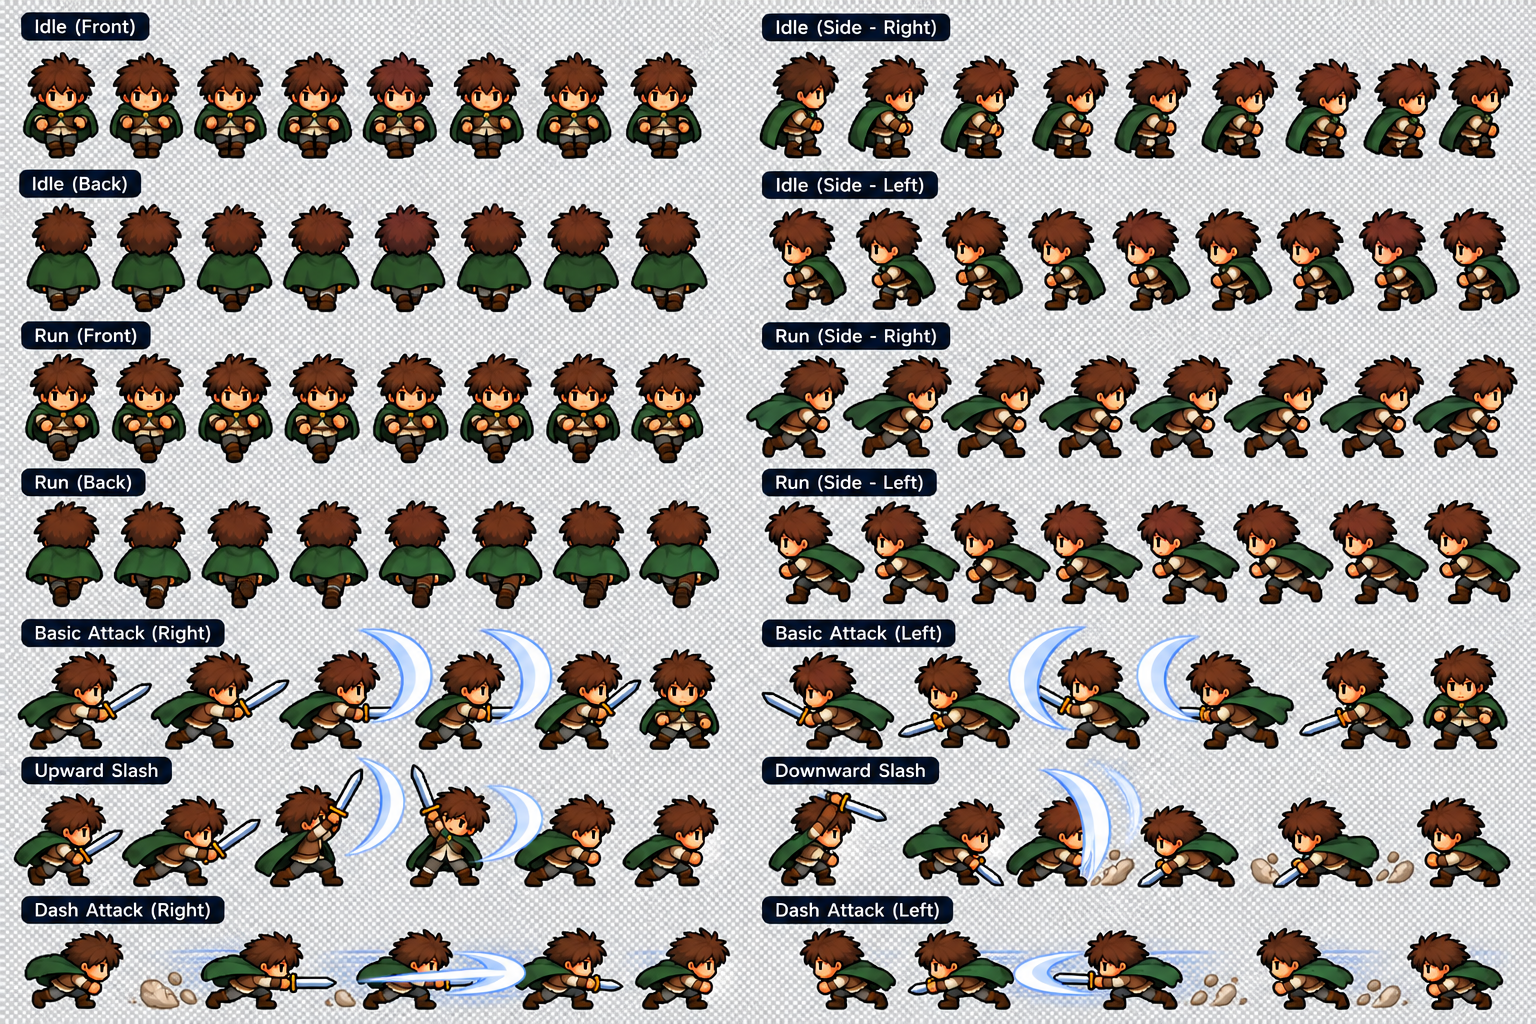
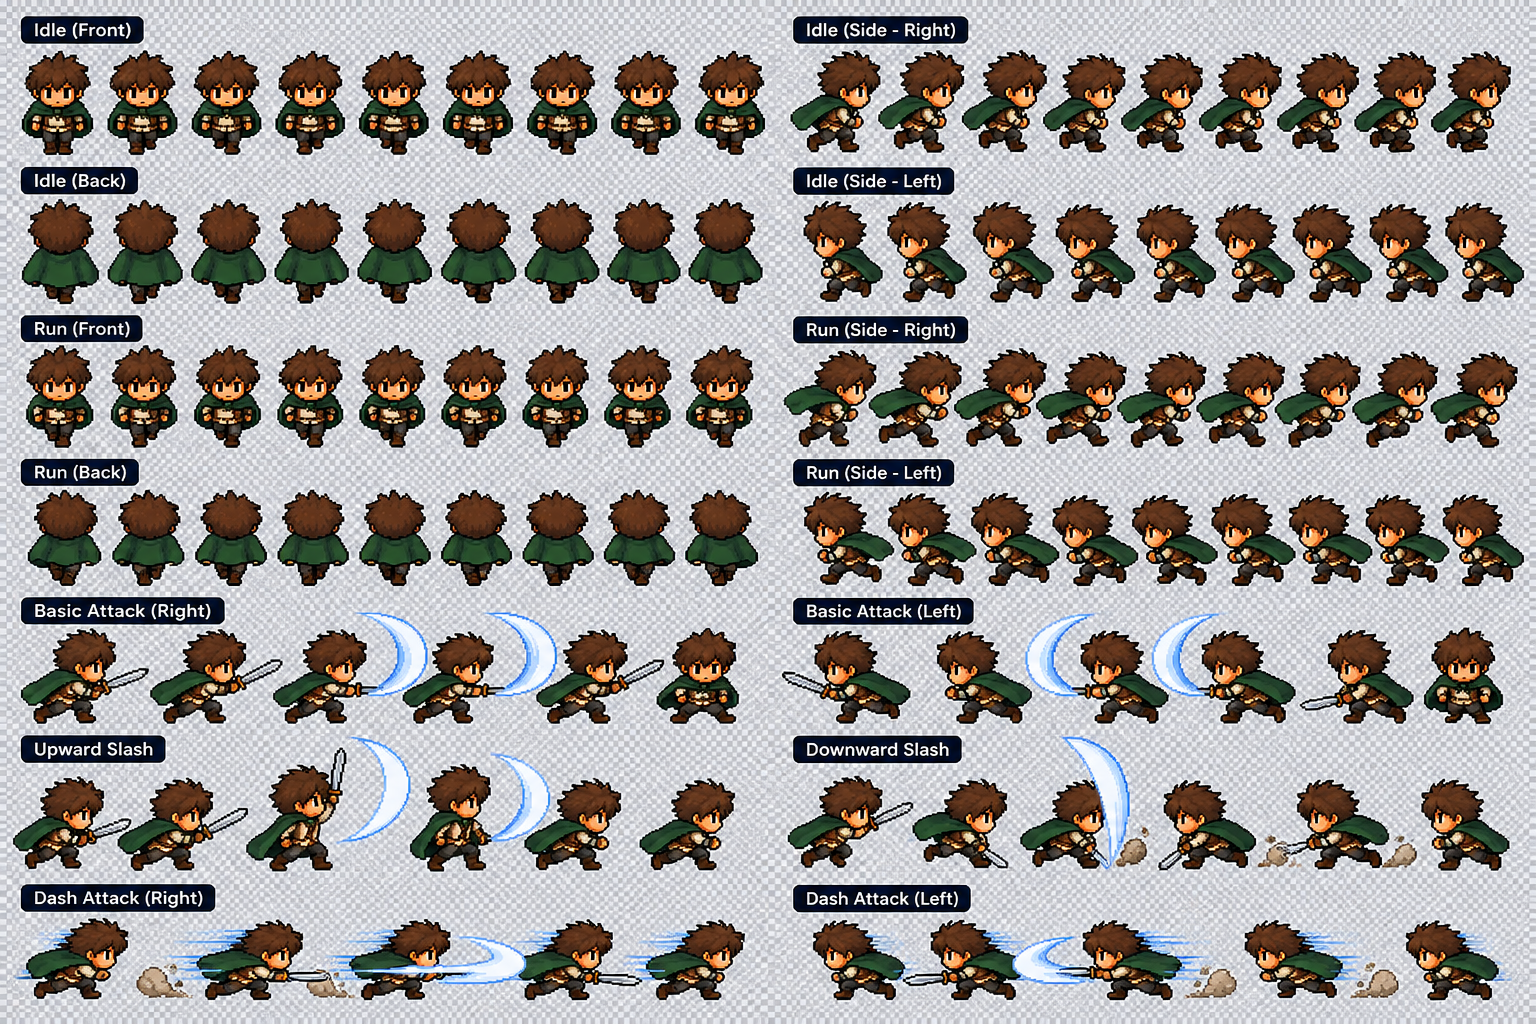
Hero: new full animation sheet
Updated tools/hero-anim.png with 9-frame idles and runs in all four directions,
basic attacks right/left, upward/downward slashes and dash attacks right/left.
Its Run (Side - Right) row has a proper stride, so running right uses it again
instead of the mirrored left run.

Claude-Session: https://claude.ai/code/session_01FFhEA1UyqBRgv5VPwuY3ib

diff --git a/js/hero-frames.js b/js/hero-frames.js
@@ -1,3 +1,3 @@
 // Generated from the hero sprite sheets by tools/build-hero.py: [x, y, w, h, anchorX] per frame.
 // Alpha encodes recolour roles: 255 keep, 254 cloak, 253 hair, 252 skin, 251 tunic.
-export const HERO_FRAMES = {"hurt": [[0, 10, 26, 25, 10]], "idleF": [[27, 2, 24, 33, 12], [52, 2, 23, 33, 11], [76, 2, 23, 33, 11], [100, 2, 23, 33, 11], [124, 2, 23, 33, 11], [148, 2, 23, 33, 11], [172, 2, 24, 33, 12], [197, 2, 24, 33, 12]], "idleR": [[222, 2, 25, 33, 15], [248, 3, 25, 32, 15], [274, 3, 25, 32, 15], [300, 3, 24, 32, 14], [325, 3, 24, 32, 14], [350, 3, 24, 32, 14], [375, 3, 24, 32, 14], [400, 3, 24, 32, 14], [425, 3, 23, 32, 13]], "idleL": [[449, 3, 24, 32, 10], [474, 3, 25, 32, 10], [500, 3, 25, 32, 10], [526, 3, 24, 32, 9], [551, 3, 25, 32, 10], [577, 3, 24, 32, 10], [602, 3, 24, 32, 10], [627, 3, 24, 32, 9], [652, 3, 25, 32, 10]], "idleB": [[678, 1, 23, 34, 11], [702, 1, 23, 34, 12], [726, 1, 24, 34, 11], [751, 1, 24, 34, 11], [776, 1, 24, 34, 12], [801, 1, 23, 34, 11], [825, 1, 24, 34, 12], [850, 1, 24, 34, 11]], "front": [[875, 1, 23, 34, 12], [899, 1, 23, 34, 12], [923, 1, 23, 34, 12], [947, 1, 24, 34, 12], [972, 1, 24, 34, 12], [997, 1, 23, 34, 12], [1021, 1, 23, 34, 12], [1045, 1, 23, 34, 12]], "side": [[1069, 3, 31, 32, 20], [1101, 3, 31, 32, 20], [1133, 3, 31, 32, 20], [1165, 3, 32, 32, 21], [1198, 2, 32, 33, 21], [1231, 2, 32, 33, 21], [1264, 2, 31, 33, 20], [1296, 3, 30, 32, 19]], "sideL": [[1327, 3, 31, 32, 10], [1359, 3, 31, 32, 10], [1391, 3, 31, 32, 10], [1423, 3, 32, 32, 10], [1456, 2, 32, 33, 10], [1489, 2, 32, 33, 10], [1522, 2, 31, 33, 10], [1554, 3, 30, 32, 10]], "back": [[1585, 2, 24, 33, 12], [1610, 1, 24, 34, 12], [1635, 1, 24, 34, 12], [1660, 1, 25, 34, 13], [1686, 1, 24, 34, 12], [1711, 1, 24, 34, 12], [1736, 1, 24, 34, 12], [1761, 1, 25, 34, 12]], "atk": [[1787, 4, 42, 31, 19], [1830, 4, 43, 31, 12], [1874, 4, 36, 31, 19], [1911, 4, 31, 31, 9], [1943, 4, 34, 31, 10]], "atkL": [[1978, 4, 42, 31, 21], [2021, 5, 38, 30, 19], [2060, 3, 35, 32, 15], [2096, 4, 37, 31, 14], [2134, 3, 36, 32, 19]], "atkF": [[2171, 5, 37, 30, 15], [2209, 8, 32, 27, 22], [2242, 6, 26, 29, 19], [2269, 9, 47, 26, 23], [2317, 7, 40, 28, 17], [2358, 7, 39, 28, 19]], "atkB": [[2398, 6, 34, 29, 17], [2433, 7, 43, 28, 20], [2477, 3, 33, 32, 12], [2511, 3, 27, 32, 7], [2539, 6, 32, 29, 11], [2572, 6, 30, 29, 11]], "dash": [[2603, 10, 48, 25, 21], [2652, 10, 50, 25, 23], [2703, 10, 44, 25, 14], [2748, 9, 35, 26, 19], [2784, 9, 30, 26, 10]], "dashL": [[2815, 9, 30, 26, 14], [2846, 10, 34, 25, 23], [2881, 10, 42, 25, 22], [2924, 9, 45, 26, 27], [2970, 11, 41, 24, 23]], "dizzy": [[3012, 4, 23, 31, 12]], "down": [[3036, 20, 32, 15, 16]], "win": [[3069, 0, 24, 35, 10]]};
+export const HERO_FRAMES = {"hurt": [[0, 10, 26, 25, 10]], "idleF": [[27, 0, 24, 35, 12], [52, 0, 23, 35, 12], [76, 1, 23, 34, 12], [100, 1, 23, 34, 12], [124, 1, 23, 34, 12], [148, 0, 23, 35, 12], [172, 0, 23, 35, 12], [196, 1, 23, 34, 12], [220, 1, 23, 34, 12]], "idleR": [[244, 1, 30, 34, 20], [275, 1, 28, 34, 18], [304, 1, 28, 34, 18], [333, 2, 27, 33, 17], [361, 2, 27, 33, 17], [389, 2, 27, 33, 17], [417, 2, 27, 33, 17], [445, 1, 27, 34, 17], [473, 1, 26, 34, 16]], "idleL": [[500, 2, 26, 33, 9], [527, 2, 26, 33, 9], [554, 2, 27, 33, 10], [582, 3, 27, 32, 10], [610, 2, 26, 33, 9], [637, 2, 26, 33, 9], [664, 2, 26, 33, 9], [691, 2, 26, 33, 9], [718, 2, 26, 33, 9]], "idleB": [[745, 0, 25, 35, 12], [771, 1, 25, 34, 12], [797, 0, 25, 35, 12], [823, 0, 25, 35, 12], [849, 0, 25, 35, 12], [875, 0, 25, 35, 12], [901, 0, 25, 35, 12], [927, 0, 24, 35, 12], [952, 0, 25, 35, 12]], "front": [[978, 1, 22, 34, 11], [1001, 1, 22, 34, 11], [1024, 1, 22, 34, 11], [1047, 1, 22, 34, 11], [1070, 1, 22, 34, 11], [1093, 1, 22, 34, 11], [1116, 1, 22, 34, 12], [1139, 1, 22, 34, 12], [1162, 1, 22, 34, 12]], "side": [[1185, 3, 31, 32, 21], [1217, 3, 31, 32, 21], [1249, 2, 31, 33, 21], [1281, 3, 30, 32, 20], [1312, 3, 30, 32, 20], [1343, 4, 29, 31, 19], [1373, 3, 29, 32, 19], [1403, 3, 28, 32, 18], [1432, 3, 29, 32, 19]], "sideL": [[1462, 4, 30, 31, 9], [1493, 4, 29, 31, 9], [1523, 4, 29, 31, 9], [1553, 5, 28, 30, 9], [1582, 5, 28, 30, 9], [1611, 5, 28, 30, 9], [1640, 6, 28, 29, 9], [1669, 5, 28, 30, 9], [1698, 5, 27, 30, 9]], "back": [[1726, 3, 24, 32, 12], [1751, 3, 24, 32, 11], [1776, 3, 24, 32, 12], [1801, 3, 24, 32, 11], [1826, 3, 24, 32, 11], [1851, 3, 23, 32, 11], [1875, 3, 24, 32, 11], [1900, 3, 23, 32, 11], [1924, 3, 24, 32, 11]], "atk": [[1949, 3, 42, 32, 18], [1992, 4, 44, 31, 18], [2037, 4, 35, 31, 17], [2073, 4, 34, 31, 18], [2108, 4, 42, 31, 18]], "atkL": [[2151, 4, 43, 31, 22], [2195, 4, 31, 31, 12], [2227, 4, 33, 31, 14], [2261, 4, 33, 31, 13], [2295, 4, 38, 31, 20]], "atkF": [[2334, 5, 42, 30, 15], [2377, 5, 32, 30, 24], [2410, 5, 42, 30, 24], [2453, 5, 32, 30, 10], [2486, 5, 43, 30, 21], [2530, 5, 42, 30, 21]], "atkB": [[2573, 4, 39, 31, 17], [2613, 4, 43, 31, 19], [2657, 0, 33, 35, 22], [2691, 0, 27, 35, 19], [2719, 4, 32, 31, 19], [2752, 4, 32, 31, 20]], "dash": [[2785, 8, 55, 27, 25], [2841, 8, 51, 27, 22], [2893, 8, 40, 27, 13], [2934, 8, 41, 27, 10], [2976, 8, 34, 27, 20]], "dashL": [[3011, 9, 31, 26, 12], [3043, 9, 38, 26, 20], [3082, 9, 41, 26, 28], [3124, 9, 53, 26, 30], [3178, 8, 50, 27, 27]], "dizzy": [[3229, 4, 23, 31, 12]], "down": [[3253, 20, 32, 15, 16]], "win": [[3286, 0, 24, 35, 10]]};

diff --git a/tools/build-hero.py b/tools/build-hero.py
@@ -124,15 +124,15 @@ run_frames = {}
 # tools/hero-anim.png: the labelled animation sheet (checkerboard background, dark label
 # boxes). Each entry: the box it's in, how many frames, and how many of them to use.
 ANIM = {  # each labelled row: its box on the sheet, how many frames, how many to use
-    'idleF': ((0, 45, 740, 160), 8, 8), 'idleR': ((745, 45, 1536, 160), 9, 9),
-    'idleB': ((0, 200, 740, 312), 8, 8), 'idleL': ((745, 200, 1536, 312), 9, 9),
-    'front': ((0, 350, 740, 462), 8, 8), 'side': ((735, 350, 1536, 462), 8, 8),
-    'back': ((0, 495, 740, 612), 8, 8), 'sideL': ((745, 495, 1536, 612), 8, 8),
-    # basic attacks: the last frames turn back to face the viewer, so they're left out
-    'atk': ((0, 645, 745, 755), 6, 5), 'atkL': ((745, 645, 1536, 755), 6, 5),
-    'atkB': ((0, 785, 745, 892), 6, 6),     # upward slash, for attacking while facing away
-    'atkF': ((765, 785, 1536, 892), 6, 6),  # downward slash, for attacking while facing the viewer
-    'dash': ((0, 925, 745, 1022), 5, 5), 'dashL': ((765, 925, 1536, 1022), 5, 5),
+    'idleF': ((0, 45, 770, 158), 9, 9), 'idleR': ((780, 45, 1536, 158), 9, 9),
+    'idleB': ((0, 195, 770, 308), 9, 9), 'idleL': ((780, 195, 1536, 308), 9, 9),
+    'front': ((0, 345, 770, 452), 9, 9), 'side': ((780, 345, 1536, 452), 9, 9),
+    'back': ((0, 490, 770, 592), 9, 9), 'sideL': ((780, 490, 1536, 592), 9, 9),
+    # basic attacks: the last frame turns back to face the viewer, so it's left out
+    'atk': ((0, 625, 770, 727), 6, 5), 'atkL': ((775, 625, 1536, 727), 6, 5),
+    'atkB': ((0, 765, 775, 874), 6, 6),     # upward slash, for attacking while facing away
+    'atkF': ((780, 765, 1536, 874), 6, 6),  # downward slash, for attacking while facing the viewer
+    'dash': ((0, 915, 775, 1010), 5, 5), 'dashL': ((780, 915, 1536, 1010), 5, 5),
 }
 def cut_sheet(path, anims):
     """Cut a labelled animation sheet (checkerboard background, dark label boxes) into
@@ -243,9 +243,6 @@ def cut_sheet(path, anims):
             run_frames[name].append(cell.crop(cell.getbbox()))
 
 cut_sheet('tools/hero-anim.png', ANIM)
-# The sheet's Run (Side - Right) row barely moves its legs (it slides), so running right
-# uses the Run (Side - Left) frames mirrored, which have a proper stride.
-run_frames['side'] = [f.transpose(Image.FLIP_LEFT_RIGHT) for f in run_frames['sideL']]
 run_scale = {}  # per-animation scale overrides (none at the moment)
 k_run = 34 / (sum(f.height for f in run_frames['front']) / len(run_frames['front']))
 
